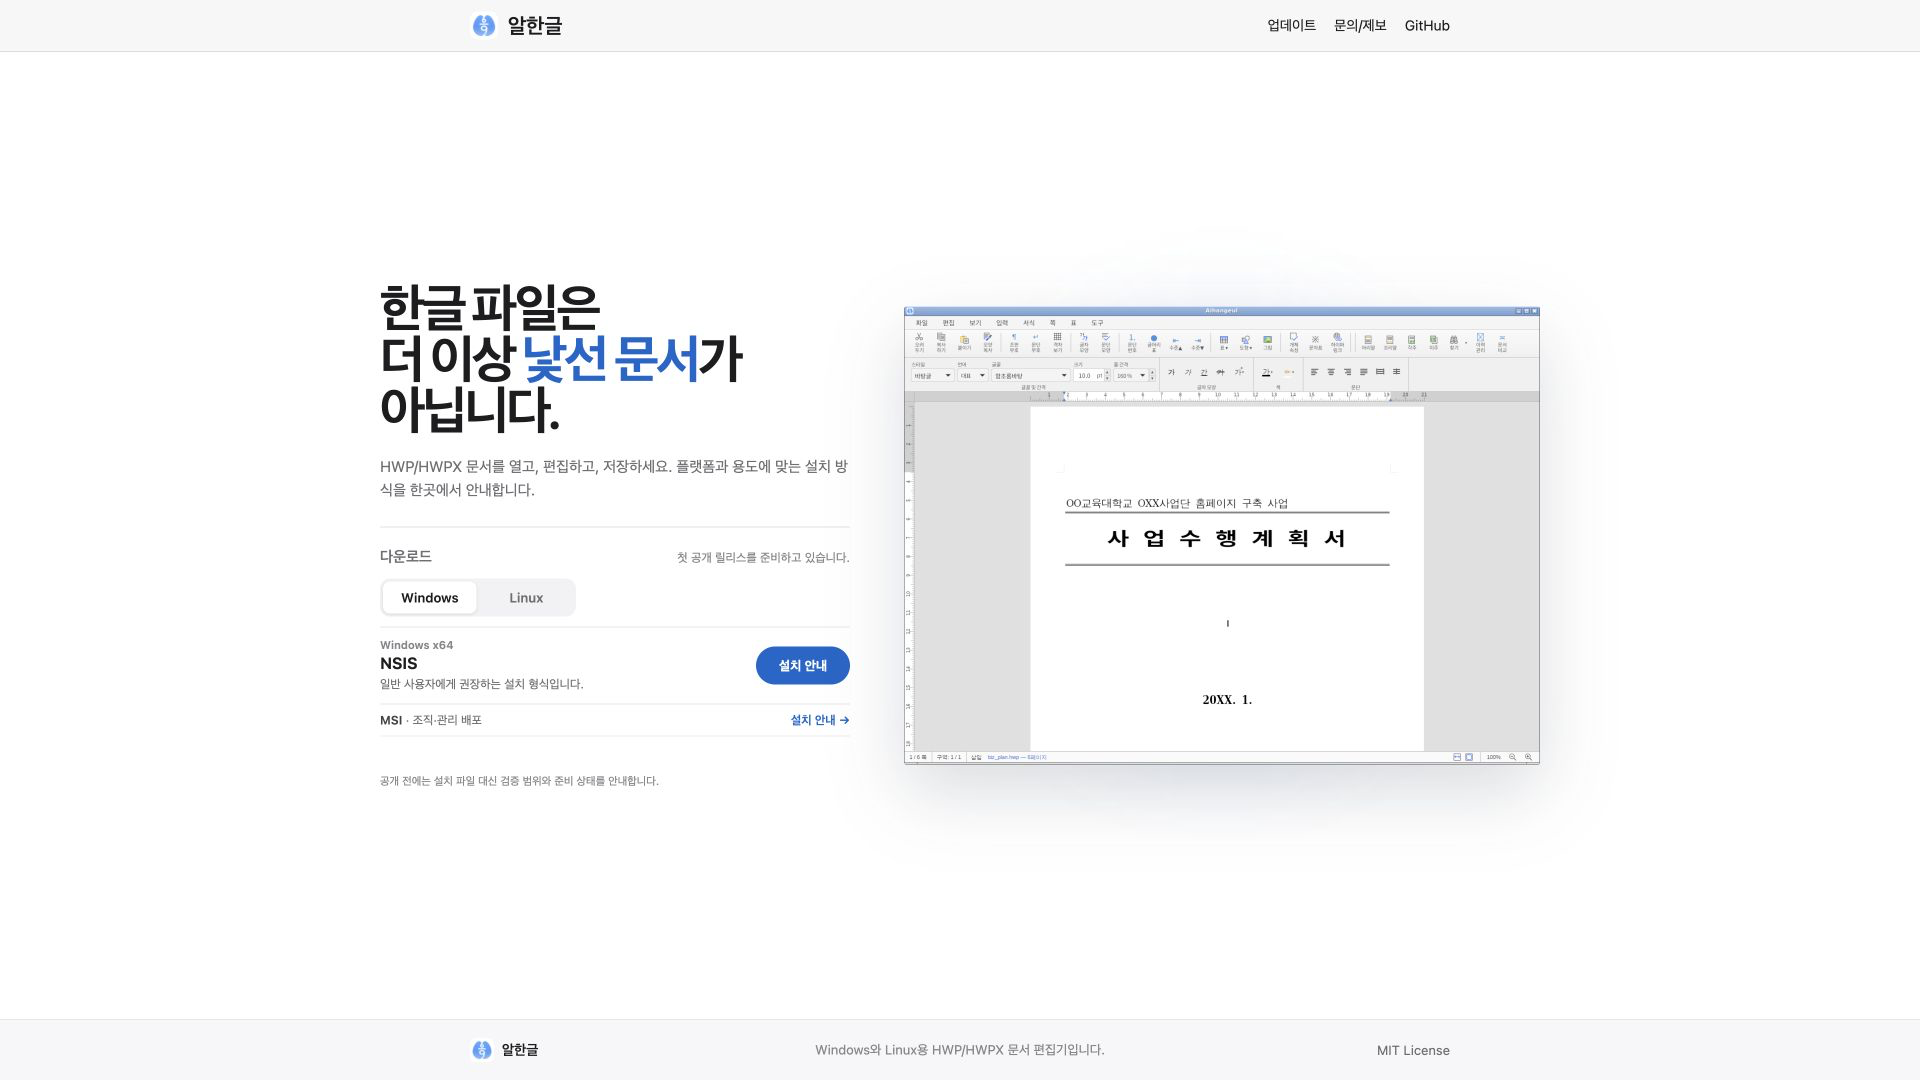
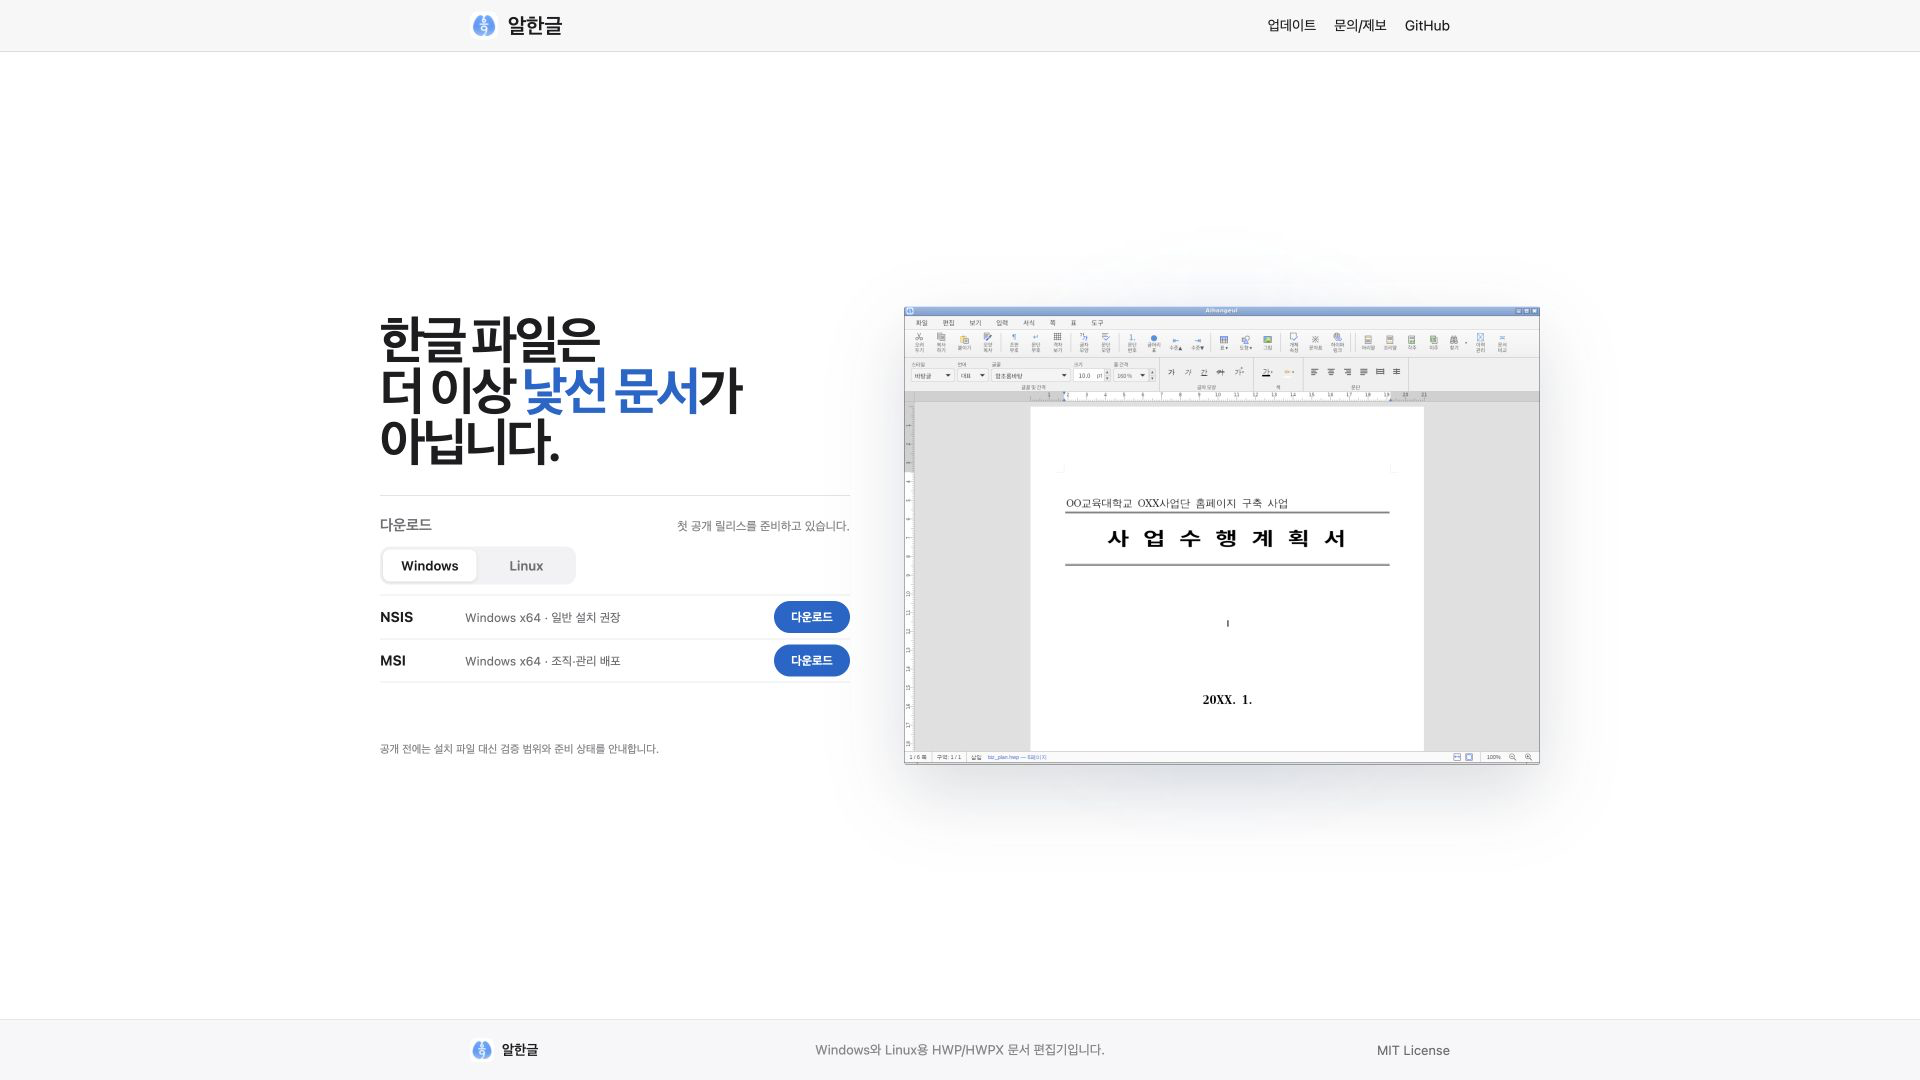
Task #45 [Stage 3.16]: 다운로드 행 컴포넌트 통일

Changed region(s): [[0.1875, 0.2444, 0.4375, 0.7333], [0.375, 0.55, 0.4688, 0.6722]]

diff --git a/site/styles.css b/site/styles.css
@@ -42,8 +42,7 @@ button { font: inherit; }
 .home-copy h1 { margin: 0; font-size: clamp(2.65rem, 3.8vw, 3.25rem); font-weight: 650; line-height: 0.98; letter-spacing: -0.055em; }
 .headline-line { display: block; white-space: nowrap; }
 .home-copy h1 em { display: inline-block; color: var(--blue); font-style: normal; white-space: nowrap; }
-.home-summary { max-width: 560px; margin: 20px 0 0; color: var(--muted); font-size: 15px; font-weight: 400; line-height: 1.55; }
-.install-panel { margin-top: 25px; padding-top: 19px; border-top: 1px solid var(--line); }
+.install-panel { margin-top: 28px; padding-top: 19px; border-top: 1px solid var(--line); }
 .install-heading { display: flex; align-items: baseline; justify-content: space-between; gap: 16px; }
 .install-heading h2 { margin: 0; color: var(--muted); font-size: 15px; font-weight: 600; line-height: 1.3; }
 .install-heading p { margin: 0; color: var(--subtle); font-size: 12px; font-weight: 400; line-height: 1.4; }
@@ -56,17 +55,14 @@ button { font: inherit; }
 .download-platform-panels { min-height: 139px; margin-top: 10px; }
 .download-platform-panel { display: none; }
 #download-platform-windows:checked ~ .download-platform-panels .windows-panel, #download-platform-linux:checked ~ .download-platform-panels .linux-panel { display: grid; }
-.download-recommended { display: grid; min-height: 78px; grid-template-columns: minmax(0, 1fr) auto; align-items: center; gap: 16px; padding: 10px 0; border-top: 1px solid rgba(29, 29, 31, 0.1); border-bottom: 1px solid rgba(29, 29, 31, 0.1); }
-.download-recommended-copy > span { display: block; color: var(--subtle); font-size: 11px; font-weight: 600; line-height: 1.3; }
-.download-recommended-copy h3 { margin: 1px 0 0; font-size: 16px; font-weight: 650; line-height: 1.25; }
-.download-recommended-copy p { margin: 3px 0 0; color: var(--muted); font-size: 12px; font-weight: 400; line-height: 1.4; }
-.download-primary-action { display: inline-flex; min-width: 94px; min-height: 38px; align-items: center; justify-content: center; padding: 0 18px; border-radius: 999px; background: var(--blue); color: white; font-size: 13px; font-weight: 650; line-height: 1; white-space: nowrap; transition: background var(--quick) var(--ease), box-shadow var(--quick) var(--ease), transform 120ms var(--ease); }
-.download-primary-action:hover { background: var(--blue-dark); box-shadow: 0 4px 10px rgba(0, 72, 145, 0.14); transform: translateY(-1px); }
-.download-secondary-list { display: grid; }
-.download-secondary-option { display: flex; min-height: 32px; align-items: center; justify-content: space-between; gap: 12px; padding: 4px 0; border-bottom: 1px solid rgba(29, 29, 31, 0.08); color: var(--muted); font-size: 12px; line-height: 1.35; }
-.download-secondary-option strong { color: #424245; font-weight: 600; }
-.download-secondary-action { flex: 0 0 auto; color: var(--blue); font-weight: 600; white-space: nowrap; }
-.download-secondary-option:hover .download-secondary-action { color: var(--blue-dark); text-decoration: underline; text-underline-offset: 3px; }
+.download-package-list { display: grid; }
+.download-package-option { display: grid; min-height: 44px; grid-template-columns: minmax(0, 1fr) auto; align-items: center; gap: 16px; padding: 5px 0; border-top: 1px solid rgba(29, 29, 31, 0.09); color: var(--ink); text-decoration: none; }
+.download-package-option:last-child { border-bottom: 1px solid rgba(29, 29, 31, 0.09); }
+.download-package-copy { display: grid; min-width: 0; grid-template-columns: 76px minmax(0, 1fr); align-items: baseline; gap: 9px; }
+.download-package-copy strong { font-size: 14px; font-weight: 650; line-height: 1.3; }
+.download-package-copy > span { overflow: hidden; color: var(--muted); font-size: 12px; font-weight: 400; line-height: 1.4; text-overflow: ellipsis; white-space: nowrap; }
+.download-package-action { display: inline-flex; min-width: 76px; min-height: 32px; align-items: center; justify-content: center; padding: 0 14px; border-radius: 999px; background: var(--blue); color: white; font-size: 12px; font-weight: 650; line-height: 1; white-space: nowrap; transition: background var(--quick) var(--ease), box-shadow var(--quick) var(--ease), transform 120ms var(--ease); }
+.download-package-option:hover .download-package-action { background: var(--blue-dark); box-shadow: 0 4px 10px rgba(0, 72, 145, 0.14); transform: translateY(-1px); }
 .install-note { margin: 8px 0 0; color: var(--subtle); font-size: 11px; font-weight: 400; line-height: 1.4; }
 .home-product { position: relative; display: flex; min-width: 0; height: min(650px, 76vh); align-items: center; justify-content: center; margin: 0; }
 .product-glow { position: absolute; inset: 8% 0; border-radius: 50%; background: radial-gradient(circle, rgba(0, 102, 204, 0.18), transparent 68%); filter: blur(28px); }
@@ -135,7 +131,6 @@ a.download-option:hover { background: var(--blue-soft); }
     .home-main { min-height: 0; padding: 25px 14px; }
     .home-shell { display: block; width: min(520px, 100%); }
     .home-copy h1 { font-size: clamp(2rem, 8.7vw, 2.55rem); }
-    .home-summary { margin-top: 14px; font-size: 14px; }
     .install-panel { margin-top: 18px; padding-top: 15px; }
     .install-heading { display: block; }
     .install-heading p { margin-top: 5px; }
@@ -166,12 +161,9 @@ a.download-option:hover { background: var(--blue-soft); }
 @media (max-height: 799px) and (min-width: 821px) {
     .home-main { padding: 16px 20px; }
     .home-copy h1 { font-size: clamp(2.5rem, 3.5vw, 3rem); }
-    .home-summary { margin-top: 14px; line-height: 1.5; }
     .install-panel { margin-top: 16px; padding-top: 14px; }
     .download-platform-picker { margin-top: 9px; }
     .download-platform-panels { min-height: 130px; margin-top: 7px; }
-    .download-recommended { min-height: 72px; padding-block: 7px; }
-    .download-primary-action { min-height: 34px; }
     .install-note { margin-top: 6px; }
     .home-product { height: min(480px, 62vh); }
 }
@@ -179,9 +171,9 @@ a.download-option:hover { background: var(--blue-soft); }
 @media (max-width: 420px) {
     .download-platform-switch { display: grid; width: 100%; }
     .download-platform-switch label { padding-inline: 12px; }
-    .download-recommended { gap: 10px; }
-    .download-recommended-copy p { max-width: 210px; }
-    .download-primary-action { min-width: 88px; padding-inline: 14px; }
+    .download-package-option { gap: 10px; }
+    .download-package-copy { grid-template-columns: 70px minmax(0, 1fr); gap: 7px; }
+    .download-package-action { min-width: 72px; padding-inline: 12px; }
 }
 @media (max-width: 340px) {
     .updates-actions { flex-direction: column; align-items: center; }

diff --git a/site/index.html b/site/index.html
@@ -16,7 +16,7 @@
         <meta name="twitter:card" content="summary_large_image" />
         <link rel="canonical" href="https://postmelee.github.io/alhangeul-tauri/" />
         <link rel="icon" href="../assets/logo/favicon.ico" />
-        <link rel="stylesheet" href="styles.css?v=45-3-15" />
+        <link rel="stylesheet" href="styles.css?v=45-3-16" />
         <script src="script.js" defer></script>
     </head>
     <body class="home-page" data-site-root="./">
@@ -43,8 +43,6 @@
                         <span class="headline-line">더 이상 <em>낯선 문서</em>가</span>
                         <span class="headline-line">아닙니다.</span>
                     </h1>
-                    <p class="home-summary">HWP/HWPX 문서를 열고, 편집하고, 저장하세요. 플랫폼과 용도에 맞는 설치 방식을 한곳에서 안내합니다.</p>
-
                     <section class="install-panel" aria-labelledby="install-title">
                         <div class="install-heading">
                             <h2 id="install-title">다운로드</h2>
@@ -60,22 +58,18 @@
                             </div>
                             <div class="download-platform-panels">
                                 <section class="download-platform-panel windows-panel" aria-labelledby="windows-package-title">
-                                    <div class="download-recommended">
-                                        <div class="download-recommended-copy"><span>Windows x64</span><h3 id="windows-package-title">NSIS</h3><p>일반 사용자에게 권장하는 설치 형식입니다.</p></div>
-                                        <a class="download-primary-action" href="updates/#latest-download" data-download-target="windows-x86_64-nsis"><span data-download-state="primary">설치 안내</span></a>
-                                    </div>
-                                    <div class="download-secondary-list">
-                                        <a class="download-secondary-option" href="updates/#latest-download" data-download-target="windows-x86_64-msi"><span><strong>MSI</strong> · 조직·관리 배포</span><span class="download-secondary-action" data-download-state="secondary">설치 안내 →</span></a>
+                                    <h3 class="visually-hidden" id="windows-package-title">Windows 다운로드</h3>
+                                    <div class="download-package-list">
+                                        <a class="download-package-option" href="updates/#latest-download" data-download-target="windows-x86_64-nsis"><span class="download-package-copy"><strong>NSIS</strong><span>Windows x64 · 일반 설치 권장</span></span><span class="download-package-action" data-download-state="home">다운로드</span></a>
+                                        <a class="download-package-option" href="updates/#latest-download" data-download-target="windows-x86_64-msi"><span class="download-package-copy"><strong>MSI</strong><span>Windows x64 · 조직·관리 배포</span></span><span class="download-package-action" data-download-state="home">다운로드</span></a>
                                     </div>
                                 </section>
                                 <section class="download-platform-panel linux-panel" aria-labelledby="linux-package-title">
-                                    <div class="download-recommended">
-                                        <div class="download-recommended-copy"><span>Linux x64</span><h3 id="linux-package-title">AppImage</h3><p>독립 실행과 자동 업데이트를 지원하는 권장 형식입니다.</p></div>
-                                        <a class="download-primary-action" href="updates/#latest-download" data-download-target="linux-x86_64-appimage"><span data-download-state="primary">설치 안내</span></a>
-                                    </div>
-                                    <div class="download-secondary-list">
-                                        <a class="download-secondary-option" href="updates/#latest-download"><span><strong>DEB/RPM</strong> · x64 배포판 패키지</span><span class="download-secondary-action">설치 안내 →</span></a>
-                                        <a class="download-secondary-option" href="updates/#latest-download"><span><strong>DEB</strong> · arm64 수동 설치</span><span class="download-secondary-action">설치 안내 →</span></a>
+                                    <h3 class="visually-hidden" id="linux-package-title">Linux 다운로드</h3>
+                                    <div class="download-package-list">
+                                        <a class="download-package-option" href="updates/#latest-download" data-download-target="linux-x86_64-appimage"><span class="download-package-copy"><strong>AppImage</strong><span>Linux x64 · 자동 업데이트 권장</span></span><span class="download-package-action" data-download-state="home">다운로드</span></a>
+                                        <a class="download-package-option" href="updates/#latest-download"><span class="download-package-copy"><strong>DEB/RPM</strong><span>Linux x64 · 배포판 패키지</span></span><span class="download-package-action" data-download-state="home">다운로드</span></a>
+                                        <a class="download-package-option" href="updates/#latest-download"><span class="download-package-copy"><strong>DEB</strong><span>Linux arm64 · 수동 설치</span></span><span class="download-package-action" data-download-state="home">다운로드</span></a>
                                     </div>
                                 </section>
                             </div>

diff --git a/site/script.js b/site/script.js
@@ -58,8 +58,7 @@ function hydrateDownloadAction(action, url, release) {
     link.dataset.downloadReady = 'true';
     link.setAttribute('aria-label', `${link.textContent.trim()} · 알한글 ${release.version} 다운로드`);
     const state = link.querySelector('[data-download-state]');
-    if (state?.dataset.downloadState === 'primary') state.textContent = `v${release.version} 다운로드`;
-    else if (state?.dataset.downloadState === 'secondary') state.textContent = '다운로드 →';
+    if (state?.dataset.downloadState === 'home') state.textContent = '다운로드';
     else if (state) state.textContent = `${state.textContent.split(' · ')[0]} · ${release.version} 다운로드`;
 }
 

diff --git a/site/feedback/index.html b/site/feedback/index.html
@@ -10,7 +10,7 @@
         <meta property="og:image" content="https://postmelee.github.io/alhangeul-tauri/assets/og-main.png" />
         <link rel="canonical" href="https://postmelee.github.io/alhangeul-tauri/feedback/" />
         <link rel="icon" href="../../assets/logo/favicon.ico" />
-        <link rel="stylesheet" href="../styles.css?v=45-3-15" />
+        <link rel="stylesheet" href="../styles.css?v=45-3-16" />
         <script src="../script.js" defer></script>
     </head>
     <body data-site-root="../">

diff --git a/site/updates/index.html b/site/updates/index.html
@@ -10,7 +10,7 @@
         <meta property="og:image" content="https://postmelee.github.io/alhangeul-tauri/assets/og-main.png" />
         <link rel="canonical" href="https://postmelee.github.io/alhangeul-tauri/updates/" />
         <link rel="icon" href="../../assets/logo/favicon.ico" />
-        <link rel="stylesheet" href="../styles.css?v=45-3-15" />
+        <link rel="stylesheet" href="../styles.css?v=45-3-16" />
         <script src="../script.js" defer></script>
     </head>
     <body data-site-root="../">

diff --git a/mydocs/orders/20260828.md b/mydocs/orders/20260828.md
@@ -4,5 +4,5 @@
 
 | Issue | 타스크 | 상태 | 비고 |
 |------|--------|------|------|
-| #45 | Windows/Linux 릴리스·업데이트용 GitHub Pages 재구성 | 진행중 | Stage 3.15 플랫폼 선택형 다운로드 패널 재설계 완료: 17:15, Stage 4 승인 대기 |
+| #45 | Windows/Linux 릴리스·업데이트용 GitHub Pages 재구성 | 진행중 | Stage 3.16 다운로드 행 컴포넌트 통일 완료: 17:24, Stage 4 승인 대기 |
 | #16 | MSI·NSIS·AppImage updater 도입 | 예정 | #45 URL 계약 확정 뒤 task-start 승인 대기 |
